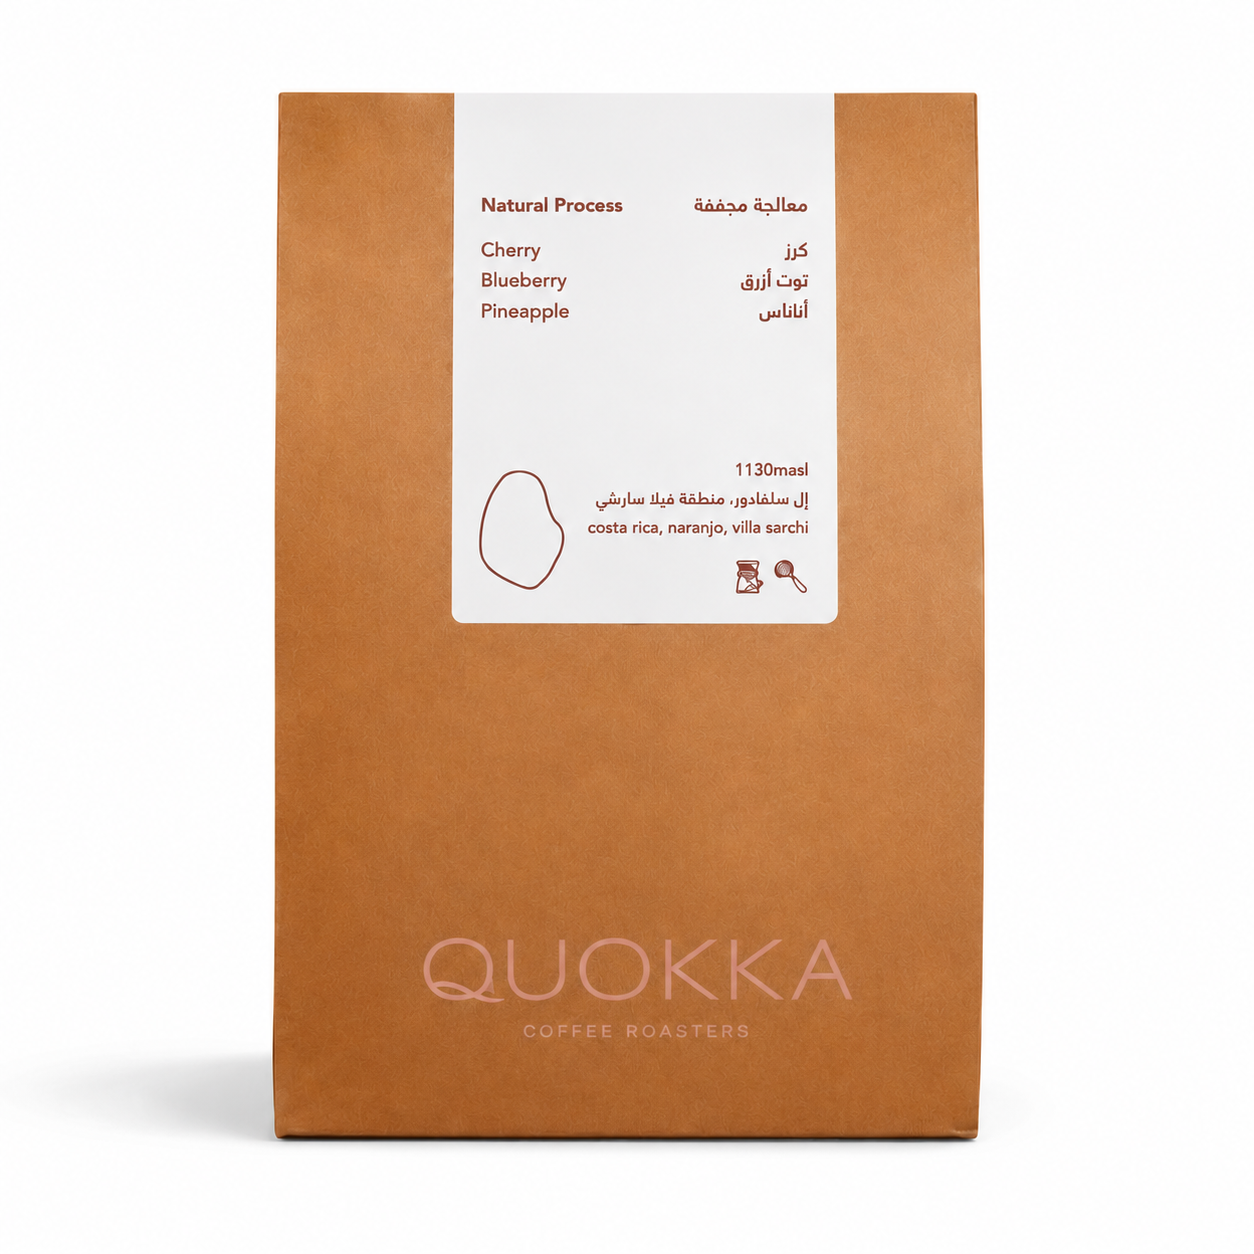
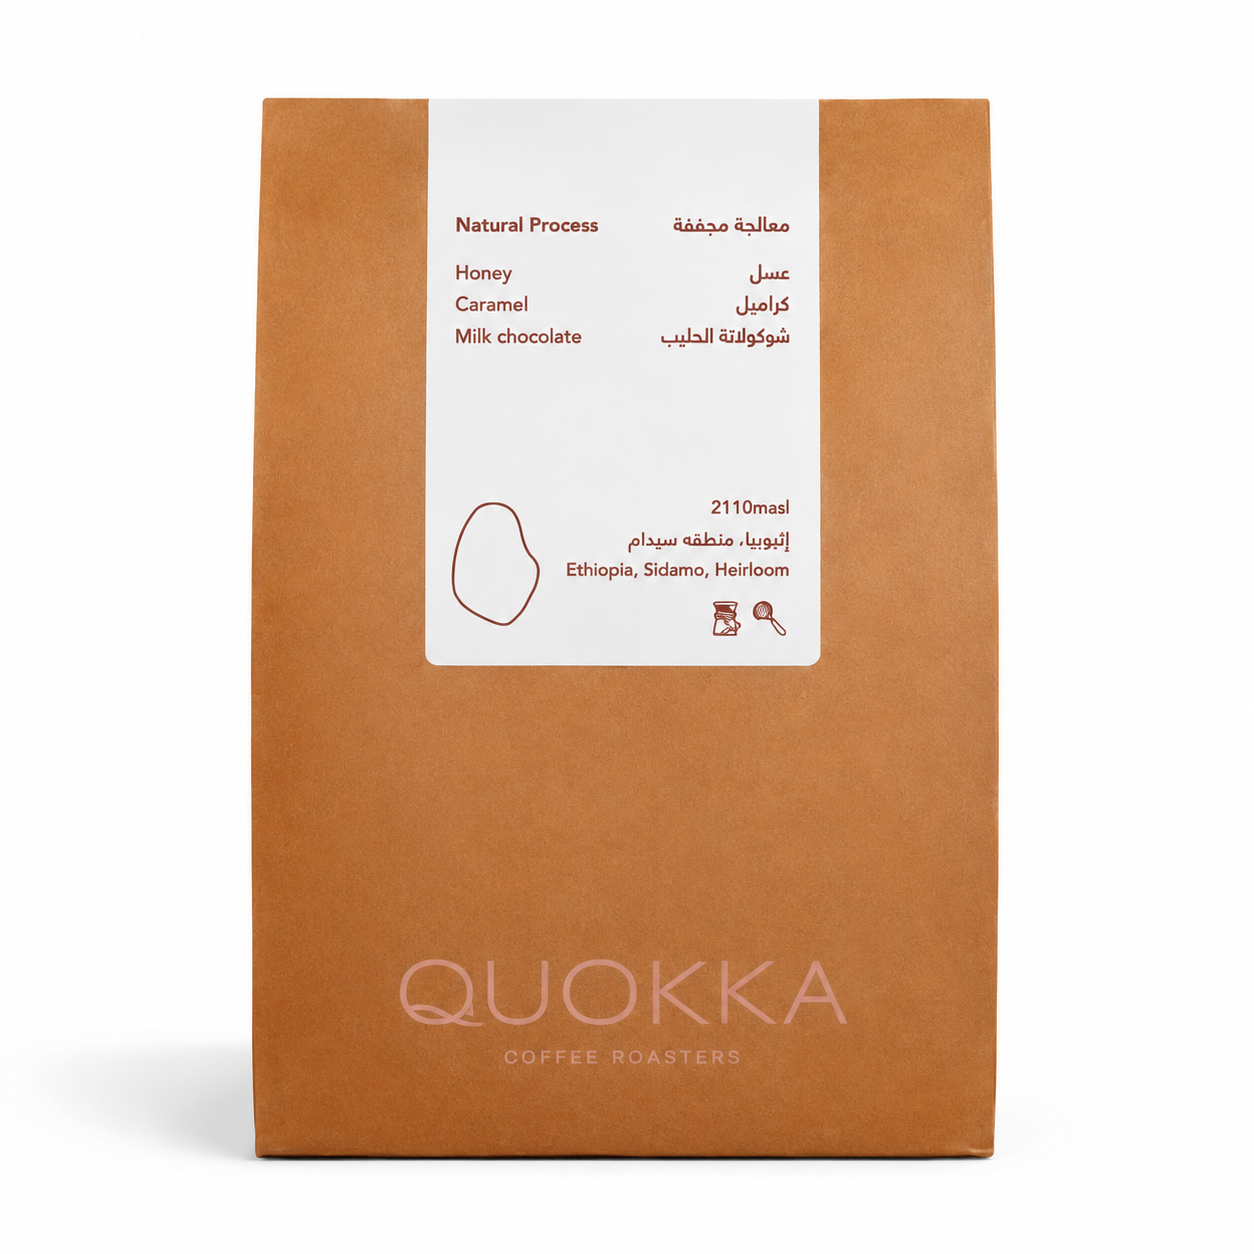
Fix coffee bean bag image mapping
The bag photo filenames did not match their actual label content:
files named for Ethiopia/Costa Rica/Salvador held the wrong bag's
photo. Renamed each file to match what it actually shows and
repointed imports so each menu card now displays the correct bean's
packaging (Colombia, Costa Rica, Ethiopia, Salvador). Salvador now
uses a real photo, replacing the SVG placeholder. No prices, copy,
layout, or sections changed.

Changed region(s): [[0.1555, 0.0622, 0.8086, 0.933], [0.311, 0.7464, 0.6842, 0.8708]]

diff --git a/src/App.tsx b/src/App.tsx
@@ -14,7 +14,7 @@ import menuDessert from "./assets/dessert-pecan-cinnamon-roll.jpg";
 import bagEthiopia from "./assets/bag-ethiopia-natural.jpg";
 import bagColombia from "./assets/bag-colombia-natural.jpg";
 import bagCostaRica from "./assets/bag-costarica-natural.jpg";
-import bagSalvador from "./assets/bag-salvador.svg";
+import bagSalvador from "./assets/bag-salvador-natural.jpg";
 
 const WA = "https://wa.me/966531014213";
 const IG = "https://instagram.com/quokka.sa";